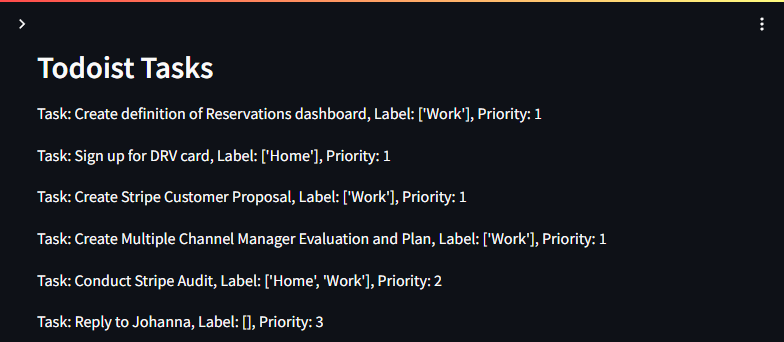
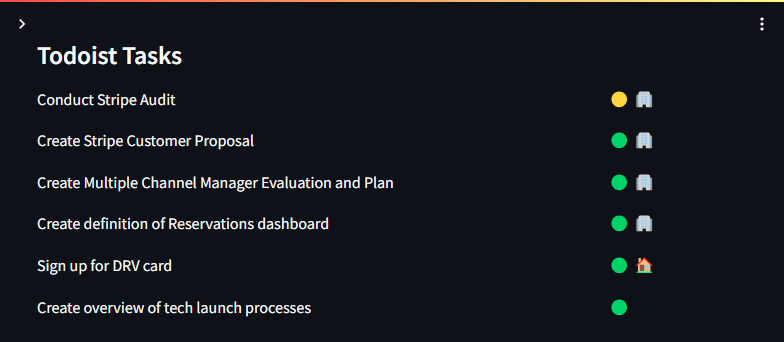
Update Look and feel

diff --git a/app.py b/app.py
@@ -9,9 +9,6 @@ load_dotenv()
 TODOIST_API_KEY = os.getenv('TODOIST_API_KEY')
 api = TodoistAPI(TODOIST_API_KEY)
 
-BACKGROUND_COLOR = 'white'
-COLOR = 'black'
-
 def set_page_container_style(
         padding_top: int = 1
     ):
@@ -30,16 +27,40 @@ def set_page_container_style(
 # Fetch all tasks
 def fetch_tasks():
     try:
-        tasks = api.get_tasks()
+        projects = api.get_projects()
+        inbox = next(
+            (project for project in projects if project.is_inbox_project == True),
+            None
+        )
+
+        tasks = api.get_tasks(project_id=inbox.id)
+        tasks.sort(key=lambda x: x.priority, reverse=True)
     except Exception as error:
         print(error)
     return tasks
+
+def write_task(task, col1, col2):
+    priorityEmoji = [ '🟢', '🟡', '🟠','🔴']
+    labelEmoji = {"Home":"🏠", "Work": "🏢"}
+
+    if task.labels == []:
+        task.labels = ""
+    else:
+        for label in task.labels:
+            task.labels = labelEmoji[label]
+    with col1:
+        st.markdown(f"{task.content}")
+                    
+    with col2:
+        st.markdown(f"{priorityEmoji[task.priority-1]} {task.labels}")
+     
 
 st.set_page_config(page_title=None, page_icon=None, layout="centered", initial_sidebar_state="collapsed", menu_items=None)
 set_page_container_style()
 
 # Display tasks
-st.header('Todoist Tasks')
-tasks = fetch_tasks()
+st.subheader('Todoist Tasks')
+col1, col2 = st.columns([8,2])
+tasks = fetch_tasks()[:6]
 for task in tasks:
-    st.write(f"Task: {task.content}, Label: {task.labels}, Priority: {task.priority}")
+    write_task(task, col1, col2)

diff --git a/pages/screenshot.py b/pages/screenshot.py
@@ -19,11 +19,12 @@ def take_screenshot():
     driver = webdriver.Chrome(service=ChromeService(ChromeDriverManager().install()), options=options)
     # Set the dimensions of the window
     driver.set_window_size(800, 480)  # width, height
-
     driver.get('http://localhost:8501')
 
     # Wait until the page has finished loading
-    WebDriverWait(driver, 10).until(EC.presence_of_element_located((By.TAG_NAME, 'p')))
+    print("Waiting for page to load...")
+    WebDriverWait(driver, 20).until(EC.presence_of_element_located((By.TAG_NAME, 'p')))
+    print("Page loaded.")
 
     screenshot = driver.save_screenshot('static/screenshot.png')
     driver.quit()
